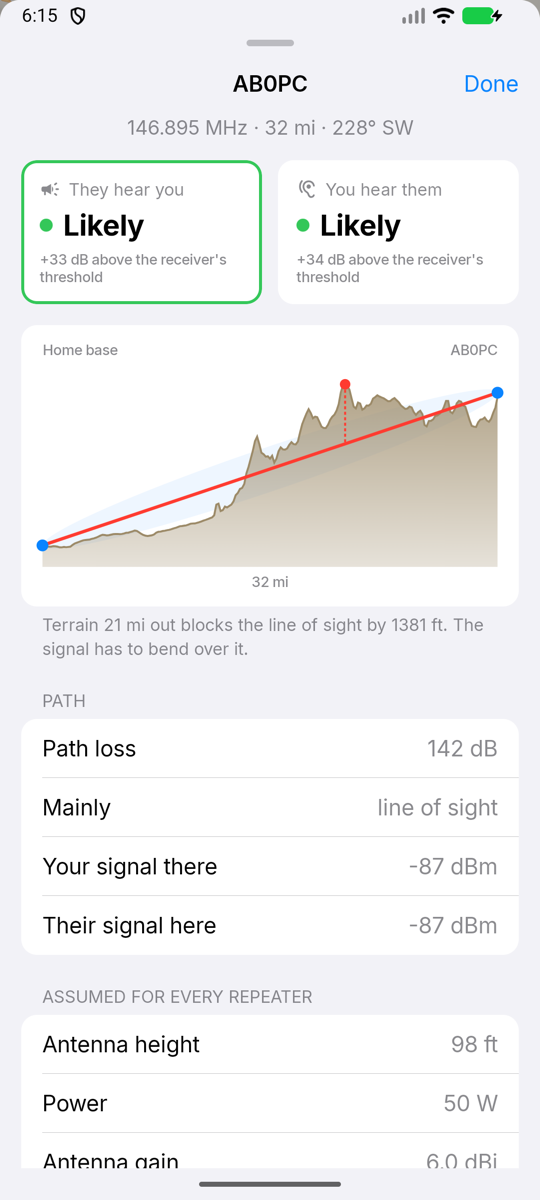
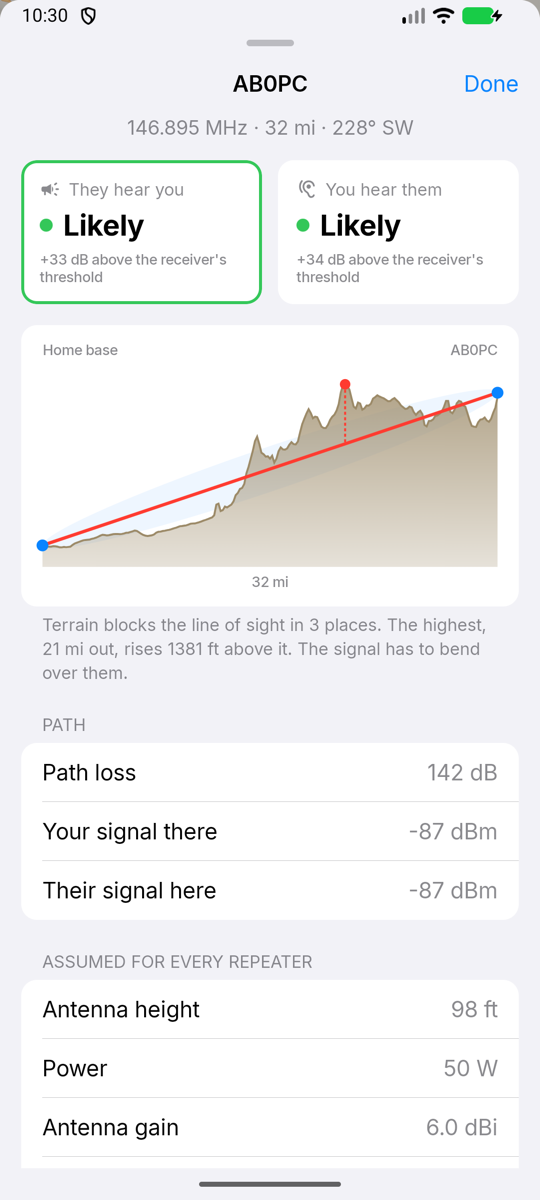
Offset 0.4.1: clearer link cards and ZBM2, Practical Comms and N9TAX antennas
Link cards no longer show the terrain model's internal "line of sight" category,
which contradicted the chart on paths a mountain blocks. A blocked path now
points at its highest ridge, the one the chart shows, and says how many places
block the line of sight.

The antenna catalog gains the ZBM2 Industries Foul Weather Whip V2 line, Stubby
and Tough Whip NMO, the Practical Comms Jungle Antenna (2 m/70 cm, GMRS,
220 MHz) and the N9TAX Labs slim jims. Gains are realistic figures rather than
advertised ones, and a test keeps handheld whips at or below a dipole. Slim
jims sold with 10 ft or 16 ft of cable bring that cable as the feedline.

Design note: PathGeometry keeps the Fresnel-ratio minimum for the
clear/grazing/blocked call but points at the highest intrusion on blocked
paths and counts obstruction runs. Catalog.integratedCable is a lookup keyed by
catalog key, so saved antennas keep it. Picking a different antenna with its
own cable replaces the feedline on purpose; re-picking the same antenna or
editing the cable keeps the user's value.

Claude-Session: https://claude.ai/code/session_01DZBXk9jjhmt8tYefQD3XVJ

diff --git a/app/src/main/java/com/vyntric/offset/domain/reach/Catalog.kt b/app/src/main/java/com/vyntric/offset/domain/reach/Catalog.kt
@@ -54,7 +54,46 @@ object Catalog {
         antenna("yagi3", "3-element 2 m Yagi", AntennaKind.YAGI, mapOf(TWO_METER to 7.0)),
         antenna("yagi5-70", "5-element 70 cm Yagi", AntennaKind.YAGI, mapOf(SEVENTY_CM to 9.0)),
         antenna("six-vertical", "6 m half-wave vertical", AntennaKind.VERTICAL, mapOf(SIX_METER to 2.15)),
+
+        // ZBM2 Industries. The maker states about 3.5 dBi for every whip; a quarter wave on a
+        // handheld cannot beat a half-wave dipole, so these use realistic handheld figures.
+        antenna("zbm2-fww-2m70", "ZBM2 Foul Weather Whip V2, 2 m/70 cm", AntennaKind.HANDHELD_WHIP, mapOf(TWO_METER to -2.0, SEVENTY_CM to 0.0)),
+        antenna("zbm2-fww-125-70", "ZBM2 Foul Weather Whip V2, 1.25 m/70 cm", AntennaKind.HANDHELD_WHIP, mapOf(ONE_TWENTY_FIVE to -1.0, SEVENTY_CM to 0.0)),
+        antenna("zbm2-fww-uhf7", "ZBM2 Foul Weather Whip V2, 70 cm 7 in", AntennaKind.HANDHELD_WHIP, mapOf(SEVENTY_CM to 0.0)),
+        antenna("zbm2-fww-gmrs-murs", "ZBM2 Foul Weather Whip V2, GMRS/MURS", AntennaKind.HANDHELD_WHIP, mapOf(GMRS to 0.0)),
+        antenna("zbm2-fww-gmrs6", "ZBM2 Foul Weather Whip V2, GMRS 6 in", AntennaKind.HANDHELD_WHIP, mapOf(GMRS to 0.0)),
+        antenna("zbm2-stubby", "ZBM2 Stubby, 2 m/70 cm", AntennaKind.HANDHELD_WHIP, mapOf(TWO_METER to -6.0, SEVENTY_CM to -3.0)),
+        antenna("zbm2-tough-whip", "ZBM2 Tough Whip NMO, 2 m/70 cm", AntennaKind.MOBILE, mapOf(TWO_METER to 2.15, SEVENTY_CM to 2.15)),
+
+        // Practical Comms jungle antennas: quarter-wave ground planes with drooping radials,
+        // hoisted into a tree or on the collapsible frame. No gain is published.
+        antenna("pc-jungle-vu", "Practical Comms Jungle Antenna, 2 m/70 cm", AntennaKind.VERTICAL, mapOf(TWO_METER to 2.0, SEVENTY_CM to 2.0)),
+        antenna("pc-jungle-gmrs", "Practical Comms Jungle Antenna, GMRS", AntennaKind.VERTICAL, mapOf(GMRS to 2.0)),
+        antenna("pc-jungle-220", "Practical Comms Jungle Antenna, 220 MHz", AntennaKind.VERTICAL, mapOf(ONE_TWENTY_FIVE to 2.0)),
+
+        // N9TAX Labs slim jims: half-wave radiators, about 2 dBi as measured in reviews. The
+        // integrated cable versions bring their cable as the feedline (see integratedCable).
+        antenna("n9tax-dual-10", "N9TAX Slim Jim, 2 m/70 cm, 10 ft cable", AntennaKind.J_POLE, mapOf(TWO_METER to 2.15, SEVENTY_CM to 2.15)),
+        antenna("n9tax-dual-16", "N9TAX Slim Jim, 2 m/70 cm, 16 ft cable", AntennaKind.J_POLE, mapOf(TWO_METER to 2.15, SEVENTY_CM to 2.15)),
+        antenna("n9tax-dual", "N9TAX Slim Jim, 2 m/70 cm, standard", AntennaKind.J_POLE, mapOf(TWO_METER to 2.15, SEVENTY_CM to 2.15)),
+        antenna("n9tax-gmrs-10", "N9TAX Slim Jim, MURS/GMRS, 10 ft cable", AntennaKind.J_POLE, mapOf(GMRS to 2.15)),
+        antenna("n9tax-gmrs-16", "N9TAX Slim Jim, MURS/GMRS, 16 ft cable", AntennaKind.J_POLE, mapOf(GMRS to 2.15)),
+        antenna("n9tax-gmrs", "N9TAX Slim Jim, MURS/GMRS, standard", AntennaKind.J_POLE, mapOf(GMRS to 2.15)),
+        antenna("n9tax-2m", "N9TAX Slim Jim, 2 m single band", AntennaKind.J_POLE, mapOf(TWO_METER to 2.15)),
+        antenna("n9tax-70", "N9TAX Slim Jim, 70 cm single band", AntennaKind.J_POLE, mapOf(SEVENTY_CM to 2.15)),
     )
+
+    /**
+     * The cable an antenna comes with, so picking it fills in the feedline. N9TAX does not say
+     * which coax its integrated cable is; RG-58 is the usual thin cable on these.
+     */
+    fun integratedCable(antenna: Antenna): Pair<Feedline, Double>? = when (antenna.catalogKey) {
+        "n9tax-dual-10", "n9tax-gmrs-10" -> Feedline.RG58 to 10 * FOOT_M
+        "n9tax-dual-16", "n9tax-gmrs-16" -> Feedline.RG58 to 16 * FOOT_M
+        else -> null
+    }
+
+    private const val FOOT_M = 0.3048
 
     /** Common antenna heights above ground, for one-tap choices. */
     val heightPresets: List<Pair<String, Double>> = listOf(

diff --git a/app/src/main/java/com/vyntric/offset/ui/reach/StationSheets.kt b/app/src/main/java/com/vyntric/offset/ui/reach/StationSheets.kt
@@ -123,6 +123,19 @@ fun StationEditorSheet(
     var heightText by remember { mutableStateOf(existing?.let { ReachFmt.heightInput(it.heightM, units) }.orEmpty()) }
     var feedline by remember { mutableStateOf(existing?.feedline) }
     var feedText by remember { mutableStateOf(existing?.takeIf { it.feedlineM > 0 }?.let { ReachFmt.heightInput(it.feedlineM, units) }.orEmpty()) }
+
+    /**
+     * Changes the antenna. An antenna sold with its own cable brings that cable as the feedline,
+     * and takes it away again when swapped out, unless the user has changed the cable since.
+     */
+    fun swapAntenna(next: Antenna?) {
+        if (next == antenna) return
+        antenna?.let(Catalog::integratedCable)?.let { (line, m) ->
+            if (feedline == line && feedText == ReachFmt.heightInput(m, units)) { feedline = null; feedText = "" }
+        }
+        antenna = next
+        next?.let(Catalog::integratedCable)?.let { (line, m) -> feedline = line; feedText = ReachFmt.heightInput(m, units) }
+    }
     var bearing by remember { mutableStateOf((existing?.bearingDeg ?: 0.0).toFloat()) }
     var fixed by remember { mutableStateOf(existing?.location as? StationLocation.Fixed) }
     var fixedText by remember { mutableStateOf(fixed?.let { String.format(Locale.US, "%.5f, %.5f", it.latitude, it.longitude) }.orEmpty()) }
@@ -145,14 +158,14 @@ fun StationEditorSheet(
                 radio = r
                 watts = r.levels.firstOrNull()
                 if (heightText.isBlank()) heightText = ReachFmt.heightInput(Catalog.defaultHeightM(r), units)
-                if (antenna?.let { a -> r.bands.none { a.covers(it) } } != false) antenna = null
+                if (antenna?.let { a -> r.bands.none { a.covers(it) } } != false) swapAntenna(null)
                 if (name.isBlank()) name = r.name.substringAfter(' ').ifBlank { r.name }
                 page = if (antenna == null) EditorPage.ANTENNA else EditorPage.FORM
             }, onCustom = { page = EditorPage.CUSTOM_RADIO })
-            EditorPage.ANTENNA -> AntennaPicker(inventory, radio, antenna, onPick = { antenna = it; page = EditorPage.FORM },
+            EditorPage.ANTENNA -> AntennaPicker(inventory, radio, antenna, onPick = { swapAntenna(it); page = EditorPage.FORM },
                 onCustom = { page = EditorPage.CUSTOM_ANTENNA })
             EditorPage.CUSTOM_RADIO -> CustomRadio { r -> radio = r; watts = r.levels.firstOrNull(); page = EditorPage.ANTENNA }
-            EditorPage.CUSTOM_ANTENNA -> CustomAntenna { a -> antenna = a; page = EditorPage.FORM }
+            EditorPage.CUSTOM_ANTENNA -> CustomAntenna { a -> swapAntenna(a); page = EditorPage.FORM }
             EditorPage.FORM -> {
                 InsetSection(header = "Name") {
                     cell { TextFieldRow("Name", name, { name = it.take(40) }, placeholder = "Truck, Home, Go-kit") }

diff --git a/propagation/src/main/kotlin/com/vyntric/offset/propagation/PathCheck.kt b/propagation/src/main/kotlin/com/vyntric/offset/propagation/PathCheck.kt
@@ -30,10 +30,16 @@ class PathGeometry(
     val endAntennaM: Double,
     /** First Fresnel zone radius at each sample. */
     val fresnelM: DoubleArray,
-    /** Sample where the terrain comes closest to (or furthest through) the line of sight. */
+    /**
+     * The sample to point at: on a blocked path the highest point above the line of sight, so
+     * the chart and the sentence name the ridge a reader sees; otherwise where the terrain comes
+     * closest to the line, as a share of the Fresnel zone.
+     */
     val worstIndex: Int,
-    /** Clearance at [worstIndex] as a fraction of the first Fresnel zone (negative: blocked). */
+    /** The smallest clearance anywhere as a fraction of the first Fresnel zone (negative: blocked). */
     val worstFresnelRatio: Double,
+    /** How many separate stretches of terrain rise through the line of sight. */
+    val obstructions: Int,
 ) {
     val clearance: Clearance
         get() = when {
@@ -64,15 +70,27 @@ class PathGeometry(
             }
             val a = e[0] + startHeightM
             val b = e[n] + endHeightM
-            var worst = -1
+            var closest = -1
             var worstRatio = Double.POSITIVE_INFINITY
+            var highest = -1
+            var highestIntrusion = 0.0
+            var obstructions = 0
+            var inside = false
             for (i in 1 until n) {
                 val los = a + (b - a) * i / n
-                val ratio = (los - apparent[i]) / fresnel[i].coerceAtLeast(1e-6)
-                if (ratio < worstRatio) { worstRatio = ratio; worst = i }
+                val intrusion = apparent[i] - los
+                val ratio = -intrusion / fresnel[i].coerceAtLeast(1e-6)
+                if (ratio < worstRatio) { worstRatio = ratio; closest = i }
+                if (intrusion > highestIntrusion) { highestIntrusion = intrusion; highest = i }
+                if (intrusion > 0 && !inside) obstructions++
+                inside = intrusion > 0
             }
-            if (worst < 0) { worst = n / 2; worstRatio = Double.POSITIVE_INFINITY }
-            return PathGeometry(profile, apparent, a, b, fresnel, worst, worstRatio)
+            val worst = when {
+                highest >= 0 -> highest
+                closest >= 0 -> closest
+                else -> { worstRatio = Double.POSITIVE_INFINITY; n / 2 }
+            }
+            return PathGeometry(profile, apparent, a, b, fresnel, worst, worstRatio, obstructions)
         }
     }
 }

diff --git a/app/src/test/java/com/vyntric/offset/domain/ReachDomainTest.kt b/app/src/test/java/com/vyntric/offset/domain/ReachDomainTest.kt
@@ -18,6 +18,31 @@ import org.junit.Test
 
 class ReachDomainTest {
     @Test
+    fun `catalog antennas have unique keys and no handheld whip beats a dipole`() {
+        val keys = Catalog.antennas.map { it.catalogKey }
+        assertEquals(keys.size, keys.toSet().size)
+        // Makers advertise 3.5 dBi and more for handheld whips; physics allows no more than a
+        // half-wave dipole's 2.15 dBi, and the catalog must not pass the claim on.
+        Catalog.antennas.filter { it.kind == com.vyntric.offset.domain.reach.AntennaKind.HANDHELD_WHIP }
+            .forEach { a -> a.gainDbi.forEach { (band, g) -> assertTrue("${a.name} on $band: $g dBi", g <= 2.15) } }
+        // The ZBM2, Practical Comms and N9TAX lines are all there, each fitting a radio on its bands.
+        val ht = Catalog.radios.first { it.catalogKey == "uv5r" }
+        val gmrs = Catalog.radios.first { it.catalogKey == "gmrs-ht" }
+        val thd75 = Catalog.radios.first { it.catalogKey == "thd75" }
+        assertTrue(Catalog.antennasFor(ht).any { it.catalogKey == "n9tax-dual-16" })
+        assertTrue(Catalog.antennasFor(ht).any { it.catalogKey == "zbm2-fww-2m70" })
+        assertTrue(Catalog.antennasFor(gmrs).any { it.catalogKey == "n9tax-gmrs-10" })
+        assertTrue(Catalog.antennasFor(gmrs).any { it.catalogKey == "pc-jungle-gmrs" })
+        assertTrue(Catalog.antennasFor(thd75).any { it.catalogKey == "pc-jungle-220" })
+        assertTrue(Catalog.antennasFor(thd75).any { it.catalogKey == "zbm2-fww-125-70" })
+        // A slim jim sold with 16 ft of cable brings that cable with it; one without brings none.
+        val withCable = Catalog.antennas.first { it.catalogKey == "n9tax-dual-16" }
+        assertEquals(Feedline.RG58, Catalog.integratedCable(withCable)!!.first)
+        assertEquals(16 * 0.3048, Catalog.integratedCable(withCable)!!.second, 1e-9)
+        assertNull(Catalog.integratedCable(Catalog.antennas.first { it.catalogKey == "n9tax-dual" }))
+    }
+
+    @Test
     fun `team locations pasted from a chat become named places`() {
         val text = """
             Alex: 38.2527, -85.7585

diff --git a/app/src/main/java/com/vyntric/offset/ui/reach/ReachFormat.kt b/app/src/main/java/com/vyntric/offset/ui/reach/ReachFormat.kt
@@ -13,7 +13,6 @@ import com.vyntric.offset.domain.reach.StationSetup
 import com.vyntric.offset.propagation.Clearance
 import com.vyntric.offset.propagation.PathGeometry
 import com.vyntric.offset.propagation.Verdict
-import com.vyntric.offset.propagation.itm.PropagationMode
 import com.vyntric.offset.ui.Fmt
 import com.vyntric.offset.ui.theme.OffsetTheme
 import java.util.Locale
@@ -145,19 +144,17 @@ object ReachFmt {
         height(setup.station.heightM, units),
     ).joinToString(" · ")
 
-    fun mode(m: PropagationMode) = when (m) {
-        PropagationMode.LINE_OF_SIGHT -> "line of sight"
-        PropagationMode.DIFFRACTION -> "over terrain (diffraction)"
-        PropagationMode.TROPOSCATTER -> "troposcatter"
-    }
-
     /** One sentence about what the terrain does to the path. */
     fun clearance(g: PathGeometry, units: Units): String {
         val at = distance(g.worstDistanceM, units)
         return when (g.clearance) {
             Clearance.CLEAR -> "Clear line of sight, with the Fresnel zone open."
             Clearance.GRAZING -> "Line of sight, but terrain $at out grazes the signal path."
-            Clearance.BLOCKED -> "Terrain $at out blocks the line of sight by ${height(g.worstIntrusionM, units)}. The signal has to bend over it."
+            Clearance.BLOCKED -> if (g.obstructions <= 1) {
+                "Terrain $at out blocks the line of sight by ${height(g.worstIntrusionM, units)}. The signal has to bend over it."
+            } else {
+                "Terrain blocks the line of sight in ${g.obstructions} places. The highest, $at out, rises ${height(g.worstIntrusionM, units)} above it. The signal has to bend over them."
+            }
         }
     }
 }

diff --git a/propagation/src/test/kotlin/com/vyntric/offset/propagation/CoverageTest.kt b/propagation/src/test/kotlin/com/vyntric/offset/propagation/CoverageTest.kt
@@ -143,6 +143,28 @@ class CoverageTest {
     }
 
     @Test
+    fun `a blocked path names its highest ridge and counts every ridge`() {
+        val a = louisville
+        val b = Earth.destination(a, 90.0, 20_000.0)
+        // A 150 m ridge mid path, and a 50 m one about 350 m from the far end where the Fresnel
+        // zone is narrow: the short one cuts a larger share of the zone, but the tall one is the
+        // ridge a reader sees on the chart.
+        val ridges = Terrain { _, lon -> if (lon in -85.65..-85.64) 300.0 else if (lon in -85.536..-85.534) 200.0 else 150.0 }
+        val g = PathCheck.of(ridges, freeSpace, a, handheld, b, handheld, 146.0, stepM = 50.0).geometry
+        assertEquals(Clearance.BLOCKED, g.clearance)
+        assertEquals(2, g.obstructions)
+        assertTrue("worst at ${g.worstDistanceM}", g.worstDistanceM in 9_000.0..11_000.0)
+        assertTrue(g.worstIntrusionM > 140)
+        // One ridge is one obstruction.
+        val one = PathCheck.of(Terrain { _, lon -> if (lon in -85.65..-85.64) 300.0 else 150.0 }, freeSpace, a, handheld, b, handheld, 146.0, 50.0).geometry
+        assertEquals(1, one.obstructions)
+        // A clear path has none.
+        val near = Earth.destination(a, 90.0, 3_000.0)
+        val clear = PathCheck.of(Terrain { _, _ -> 150.0 }, freeSpace, a, handheld.copy(heightM = 30.0), near, handheld.copy(heightM = 30.0), 146.0, 100.0).geometry
+        assertEquals(0, clear.obstructions)
+    }
+
+    @Test
     fun `radius grows with antenna height and stays within limits`() {
         val low = CoverageRequest.radiusFor(1.5, 1.5)
         val high = CoverageRequest.radiusFor(20.0, 30.0)

diff --git a/app/src/main/java/com/vyntric/offset/ui/reach/LinkSheet.kt b/app/src/main/java/com/vyntric/offset/ui/reach/LinkSheet.kt
@@ -84,7 +84,6 @@ fun LinkSheet(
         InsetSection(header = "Path") {
             if (check.pathLoss.modelled) {
                 cell { DetailRow("Path loss", String.format(Locale.US, "%.0f dB", check.pathLoss.lossDb)) }
-                cell { DetailRow("Mainly", ReachFmt.mode(check.pathLoss.mode)) }
             } else {
                 cell { DetailRow("Path loss", "Beyond the model's range") }
             }

diff --git a/docs/ASSUMPTIONS.md b/docs/ASSUMPTIONS.md
@@ -274,6 +274,17 @@ assumed and why. Items that need a physical radio to confirm are marked **(hardw
     antennas are lossy. Collinear figures are the makers' and are optimistic. Feedline loss per
     100 ft at 144 and 440 MHz is from manufacturer tables (RG-58 6.1/11.7, RG-8X 4.7/8.6, RG-213
     2.8/5.1, LMR-400 1.5/2.7 dB) and scaled as f^k between and beyond them.
+    Named antennas (added 2026-11-18): ZBM2 Industries states about 3.5 dBi for every Foul
+    Weather Whip and the Tough Whip. A quarter wave on a handheld cannot beat a half-wave
+    dipole, so the whips are modelled at 0 dBi on 70 cm, GMRS and the 1.25 m side -1 dBi, the
+    loaded 2 m side -2 dBi, the Stubby -6/-3 dBi, and the Tough Whip NMO as a quarter wave on a
+    roof (2.15 dBi). Practical Comms publishes no gain for its jungle antennas, quarter-wave
+    ground planes with drooping radials, taken as 2 dBi. N9TAX Labs publishes no gain for its
+    slim jims; a review measured just over 2 dBi on a 2 m unit, so all are 2.15 dBi. N9TAX's
+    store was closed when these were added, so its lineup comes from the archived catalog of
+    2026-10-22; its single-band slim jims are built to order and only 2 m and 70 cm are listed.
+    The integrated 10 ft and 16 ft cable versions do not say which coax they use; picking one
+    fills in that length of RG-58 as the feedline, which can be changed.
 87. **Beam pattern.** A Yagi's horizontal pattern is the usual parabolic main lobe (12 dB at
     one beamwidth off axis) floored at a 15 dB front to back ratio, with the beamwidth from its
     gain assuming a round main lobe. Elevation patterns are not modelled.

diff --git a/CHANGELOG.md b/CHANGELOG.md
@@ -7,6 +7,21 @@ heading matches the tag as the GitHub Release notes, so every tag needs a sectio
 
 ## [Unreleased]
 
+## [0.4.1] - 2026-11-18
+
+### Added
+- Reach's antenna catalog lists the ZBM2 Industries Foul Weather Whip V2 (2 m/70 cm, 1.25 m/70 cm,
+  70 cm 7 in, GMRS/MURS, GMRS 6 in), Stubby and Tough Whip NMO; the Practical Comms Jungle Antenna
+  (2 m/70 cm, GMRS, 220 MHz); and the N9TAX Labs slim jims (2 m/70 cm and MURS/GMRS, standard or
+  with 10 ft or 16 ft cable, and single band 2 m or 70 cm). Gains are realistic figures rather
+  than advertised ones; see docs/ASSUMPTIONS.md.
+
+### Fixed
+- A link card no longer says "Mainly line of sight" for a path a mountain blocks. That label was
+  the terrain model's internal category, not what the terrain does, so it is gone.
+- On a path several ridges block, the card points at the highest ridge, the one the chart shows,
+  and says how many places block the line of sight.
+
 ## [0.4.0] - 2026-11-18
 
 ### Added
